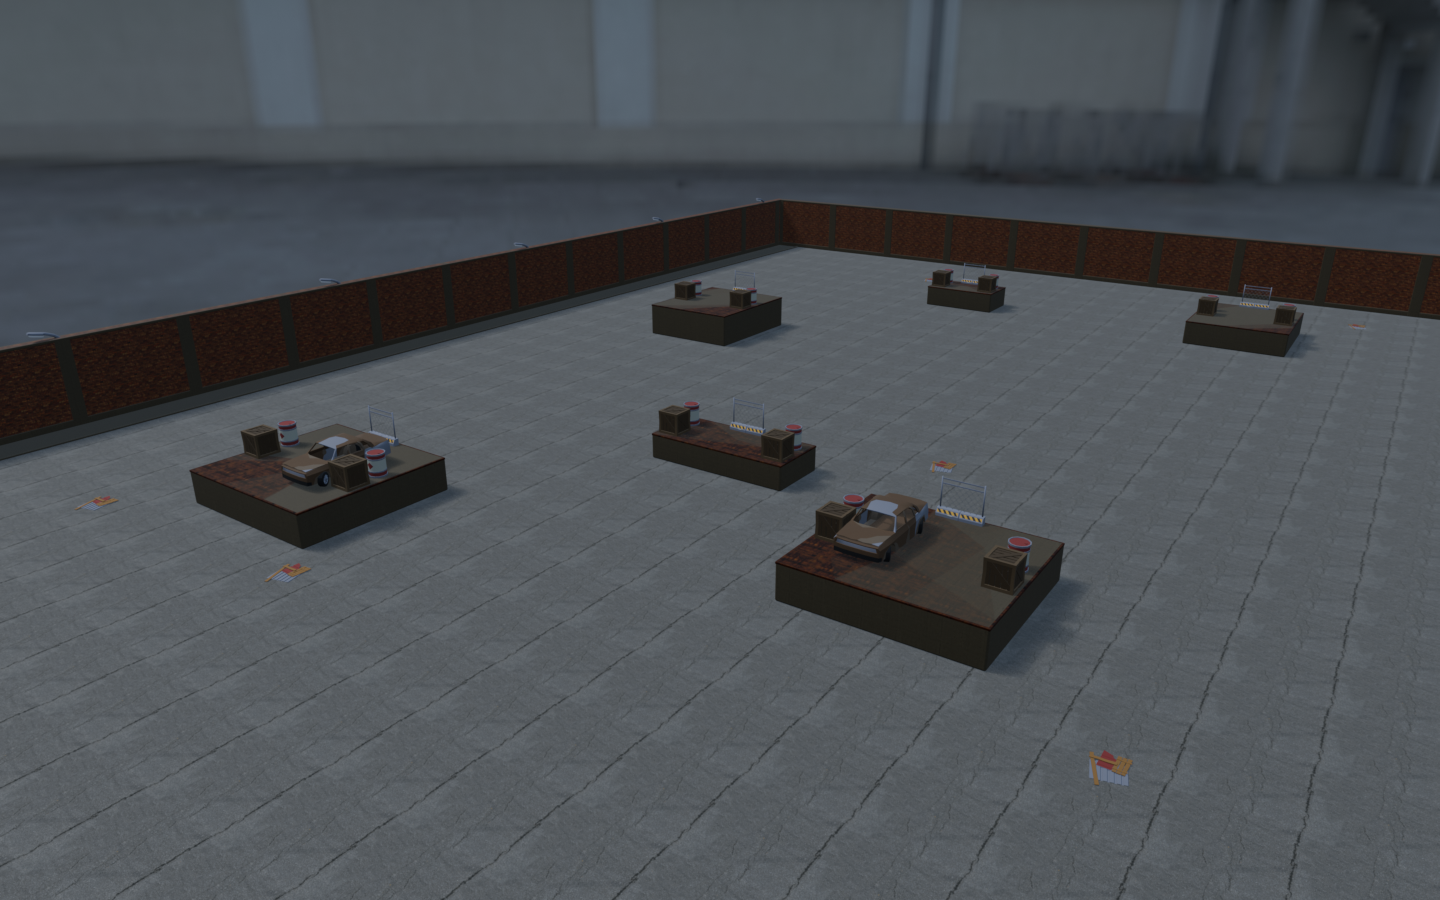
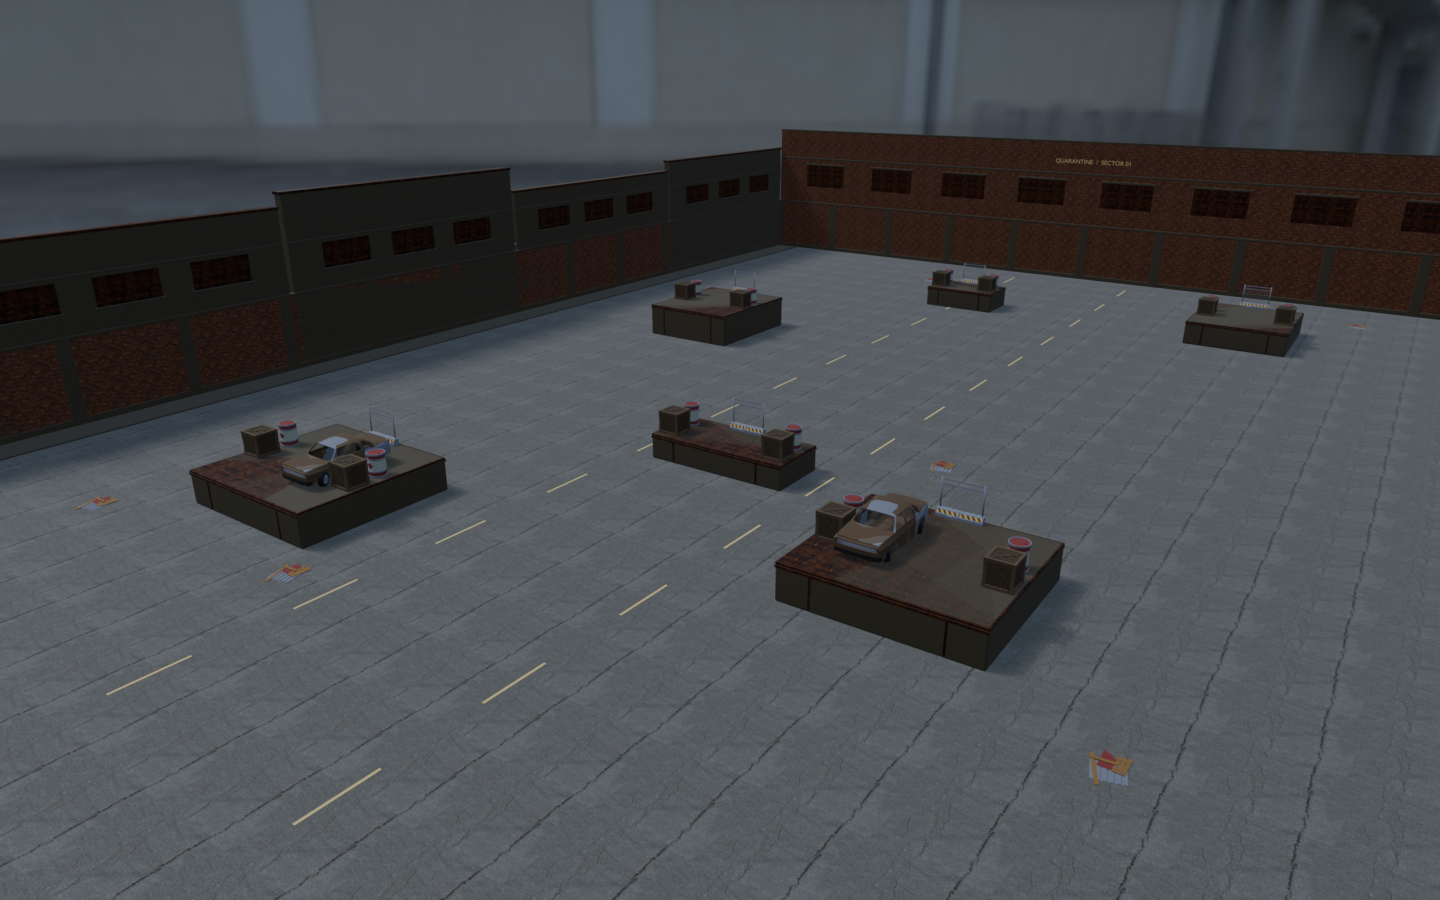
docs(art): refresh final courtyard render and milestone record

diff --git a/docs/github-progress.md b/docs/github-progress.md
@@ -60,10 +60,10 @@ independent skinned-vertex deformation, plus the mixed-library export and wheel 
 
 ## Supplied Warden and motion milestone
 
-Six meaningful follow-up commits cover export/privacy fixes, the supplied boss
+Seven meaningful follow-up commits cover export/privacy fixes, the supplied boss
 and ten skinned character assets, crouching/map practice, motion/reload/HUD,
-courtyard refinements, and the verified visual handoff. This brings the branch
-to **65 history entries since the baseline**, including merges, with **19 pending
+courtyard refinements, the verified visual handoff, and its final map render. This brings the branch
+to **66 history entries since the baseline**, including merges, with **20 pending
 commits ahead of its default-branch baseline**. These are history counts rather
 than credited profile-contribution totals. PR #16 remains a draft for review.
 
